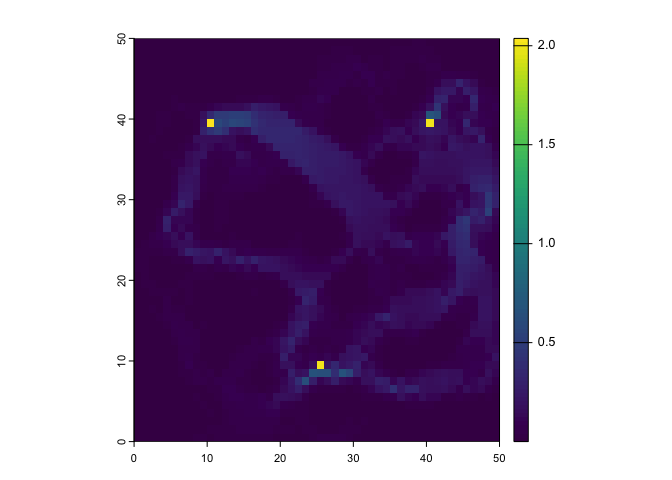
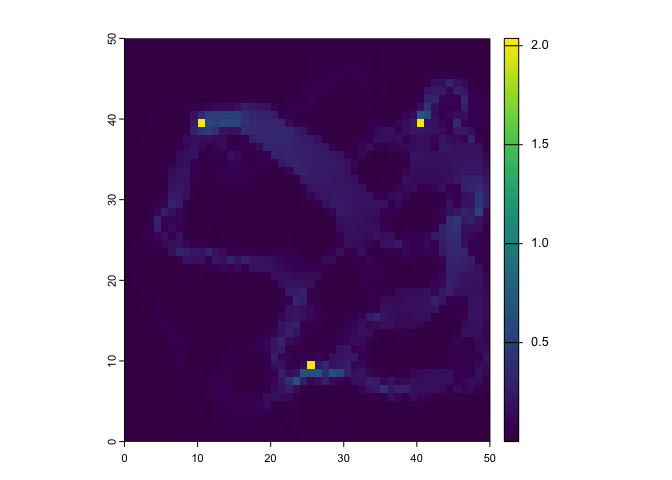
Deploying to gh-pages from @ matthewkling/circuitscaper@aba82f9076a78e4d1580951ad5da9aec092e3d08 🚀

diff --git a/index.html b/index.html
@@ -82,8 +82,10 @@
 <h2 id="installation">Installation<a class="anchor" aria-label="anchor" href="#installation"></a>
 </h2>
 <div class="sourceCode" id="cb1"><pre class="downlit sourceCode r">
-<code class="sourceCode R"><span><span class="co"># 1. Install the R package</span></span>
-<span><span class="fu">remotes</span><span class="fu">::</span><span class="fu">install_github</span><span class="op">(</span><span class="st">"matthewkling/circuitscaper"</span><span class="op">)</span></span>
+<code class="sourceCode R"><span><span class="co"># 1. Install the R package from CRAN</span></span>
+<span><span class="fu"><a href="https://rdrr.io/r/utils/install.packages.html" class="external-link">install.packages</a></span><span class="op">(</span><span class="st">"circuitscaper"</span><span class="op">)</span></span>
+<span><span class="co"># or install the development version from GitHub</span></span>
+<span><span class="co"># remotes::install_github("matthewkling/circuitscaper")</span></span>
 <span></span>
 <span><span class="co"># 2. Let the package install Julia and the necessary Julia libraries</span></span>
 <span><span class="kw"><a href="https://rdrr.io/r/base/library.html" class="external-link">library</a></span><span class="op">(</span><span class="va"><a href="https://github.com/matthewkling/circuitscaper" class="external-link">circuitscaper</a></span><span class="op">)</span></span>

diff --git a/index.md b/index.md
@@ -22,8 +22,10 @@ from R, while Julia handles the heavy lifting under the hood.
 
 ``` r
 
-# 1. Install the R package
-remotes::install_github("matthewkling/circuitscaper")
+# 1. Install the R package from CRAN
+install.packages("circuitscaper")
+# or install the development version from GitHub
+# remotes::install_github("matthewkling/circuitscaper")
 
 # 2. Let the package install Julia and the necessary Julia libraries
 library(circuitscaper)